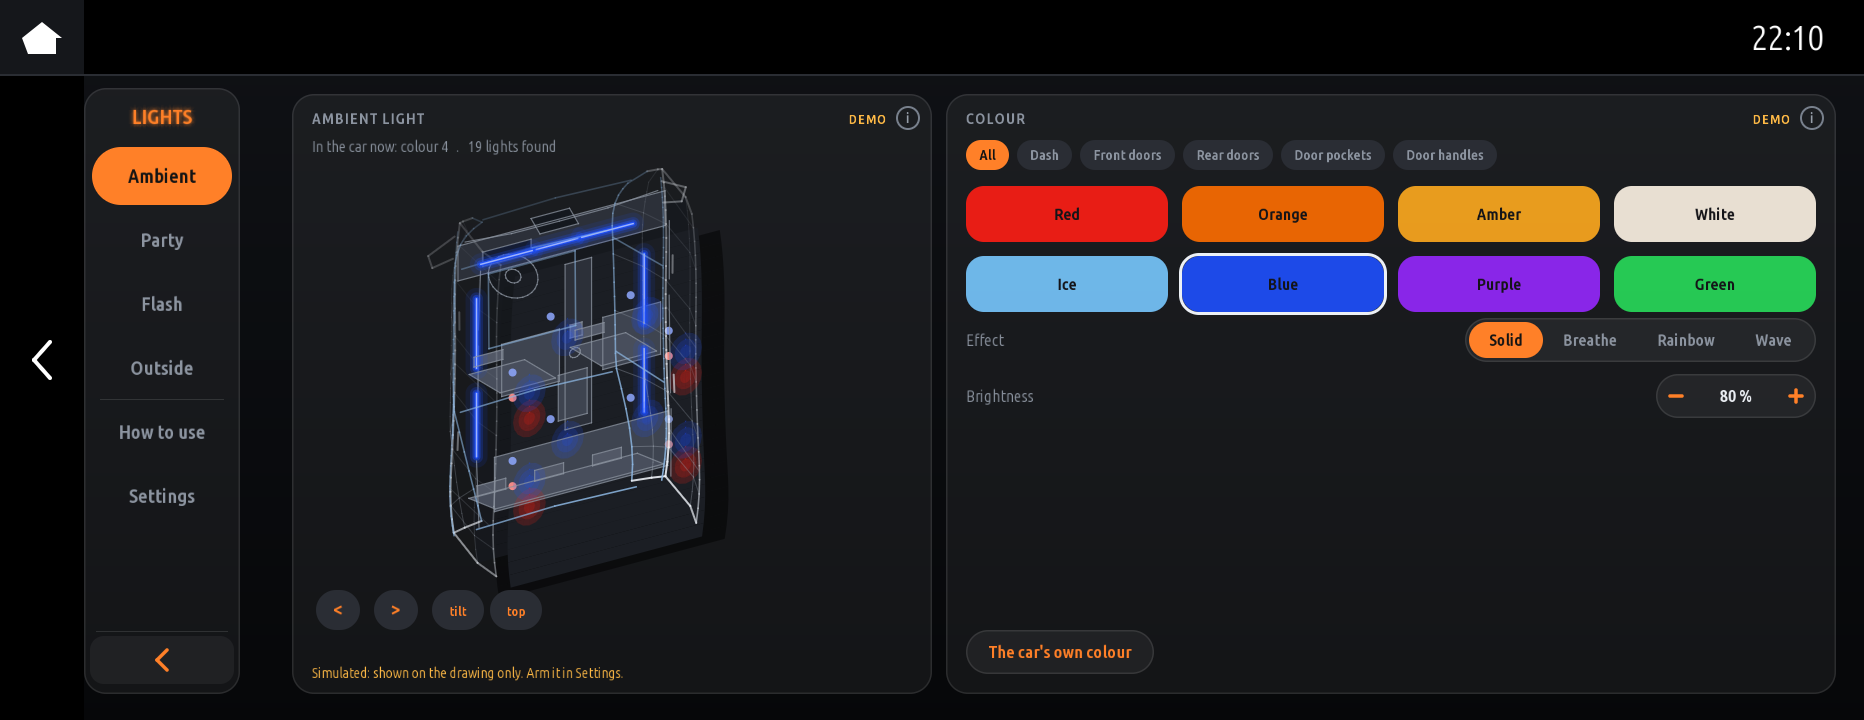
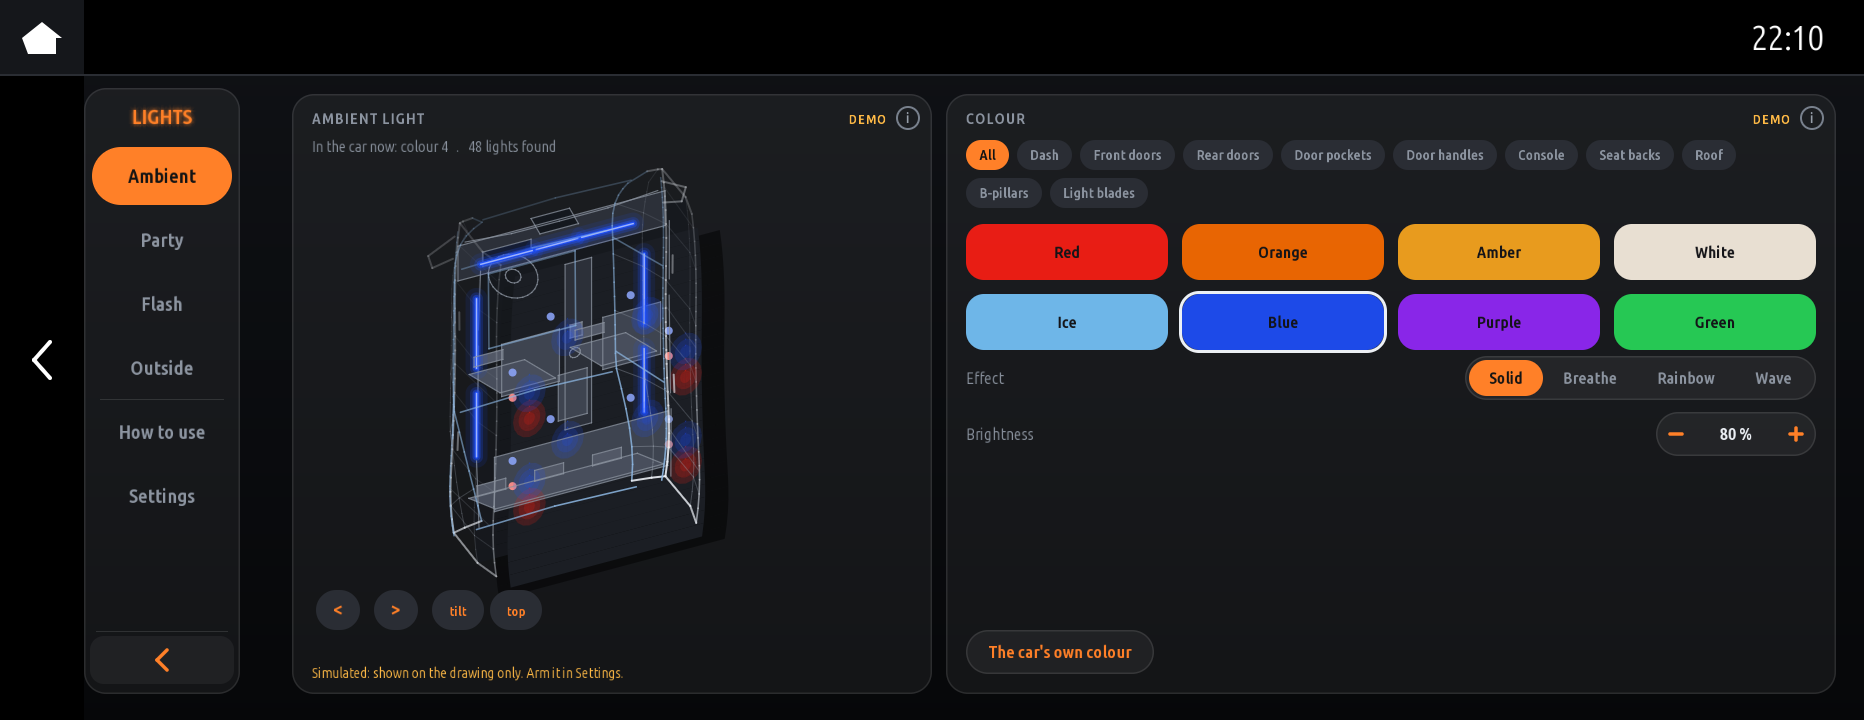
Lights: region chips take as many rows as they need

Changed region(s): [[0.4979, 0.2139, 0.9957, 0.55], [0.4979, 0.5194, 0.5601, 0.6111], [0.9024, 0.5806, 0.9646, 0.6111]]

diff --git a/apps/p96_lights/pages.js b/apps/p96_lights/pages.js
@@ -155,25 +155,27 @@ function pageAmbient(cv, v, st, t, act) {
     UI.card(cv, x, T, w, UI.hh(), 'Colour', { info: INFO.ambient });
     // the regions this car has, as chips: a colour goes to the one picked (All: the whole cabin)
     const regs = regionsOf(v.ambient && v.ambient.lights), reg = v.region || 'all';
-    let cx0 = x + 20; const cy0 = T + 46;
+    // as many rows as the chips need (a car with every region takes two)
+    let cx0 = x + 20, cy0 = T + 46;
     regs.forEach((r) => {
         const ww = Math.ceil(cv.textWidth(r[1], 14, { font: 'bold' })) + 26, on = r[0] === reg;
-        if (cx0 + ww > x + w - 20) return;
+        if (cx0 + ww > x + w - 20) { cx0 = x + 20; cy0 += 38; }
         cv.roundRect(cx0, cy0, ww, 30, 15, on ? C.accent : '#2a2d34');
         cv.text(r[1], cx0 + ww / 2, cy0 + 20, 14, on ? C.dark : C.dim, { font: 'bold', align: 'center', literal: true });
         if (cv.target) cv.target(cx0, cy0 - 6, ww, 42, () => act.region(r[0]), 'lreg|' + r[0], 15);
         cx0 += ww + 8;
     });
+    const gy = cy0 + 46;
     if (regs.length === 1) cv.text(v.armed ? 'Regions appear once the body controller has listed its lights' : 'Regions: listed from the car once armed', x + w - 20, cy0 + 20, 13, C.dim, { align: 'right', literal: true });
     const cols = 4, gap = 14, sw = Math.floor((w - 40 - gap * (cols - 1)) / cols), sh = 56;
     COLOURS.forEach((c, i) => {
-        const cx = x + 20 + (i % cols) * (sw + gap), cy = T + 92 + Math.floor(i / cols) * (sh + gap), sel = !s.own && same(((v.regionColours || {})[reg] || up).rgb || up.rgb, c[1]);
+        const cx = x + 20 + (i % cols) * (sw + gap), cy = gy + Math.floor(i / cols) * (sh + gap), sel = !s.own && same(((v.regionColours || {})[reg] || up).rgb || up.rgb, c[1]);
         cv.roundRect(cx, cy, sw, sh, 18, [c[1][0], c[1][1], c[1][2], 230]);
         if (sel) cv.strokeRoundRect(cx - 3, cy - 3, sw + 6, sh + 6, 20, 3, C.text);
         cv.text(c[0], cx + sw / 2, cy + sh / 2 + 6, 16, [20, 20, 24], { font: 'bold', align: 'center', literal: true });
         if (cv.target) cv.target(cx, cy, sw, sh, () => act.colour(c[1]), 'lcol|' + i, 18);
     });
-    const ry = T + 92 + 2 * (sh + gap) + 14;
+    const ry = gy + 2 * (sh + gap) + 14;
     cv.text('Effect', x + 20, ry + 6, 16, C.dim, lit);
     UI.segmented(cv, x + w - 20, ry, EFFECTS, s.kind || 'solid', act.effect, 'leffect');
     cv.text('Brightness', x + 20, ry + 62, 16, C.dim, lit);

diff --git a/tools/lights_shots.js b/tools/lights_shots.js
@@ -29,7 +29,7 @@ function shot(name, set, t) {
     play(rec.words(), cv);
     fs.writeFileSync(path.join(out, name + '.png'), cv.png(9));
 }
-v.ambient.lights = require('../apps/p96_lights/lin').sample();
+v.ambient.lights = require('../apps/p96_lights/lin').sample().concat(Object.keys(require('../apps/p96_lights/lin').PLACES).map((k) => ({ name: require('../apps/p96_lights/lin').PLACES[k][0] })).filter((l) => /Sunroof|seat back|Console|B-pillar|blade/.test(l.name)));
 v.carAmbient = 4; v.ambient.n = v.ambient.lights.length;
 shot('ambient', { tab: 0 });
 v.view = { pitch: 35, roll: -25 }; v.regionColours = { pockets: { rgb: [255, 30, 20], bright: 90 } }; shot('ambient-turned', { tab: 0 }, 1); v.view = null; v.regionColours = {}; shot('party', { tab: 1 }, 0.25); shot('flash', { tab: 2 }, 0.35);
